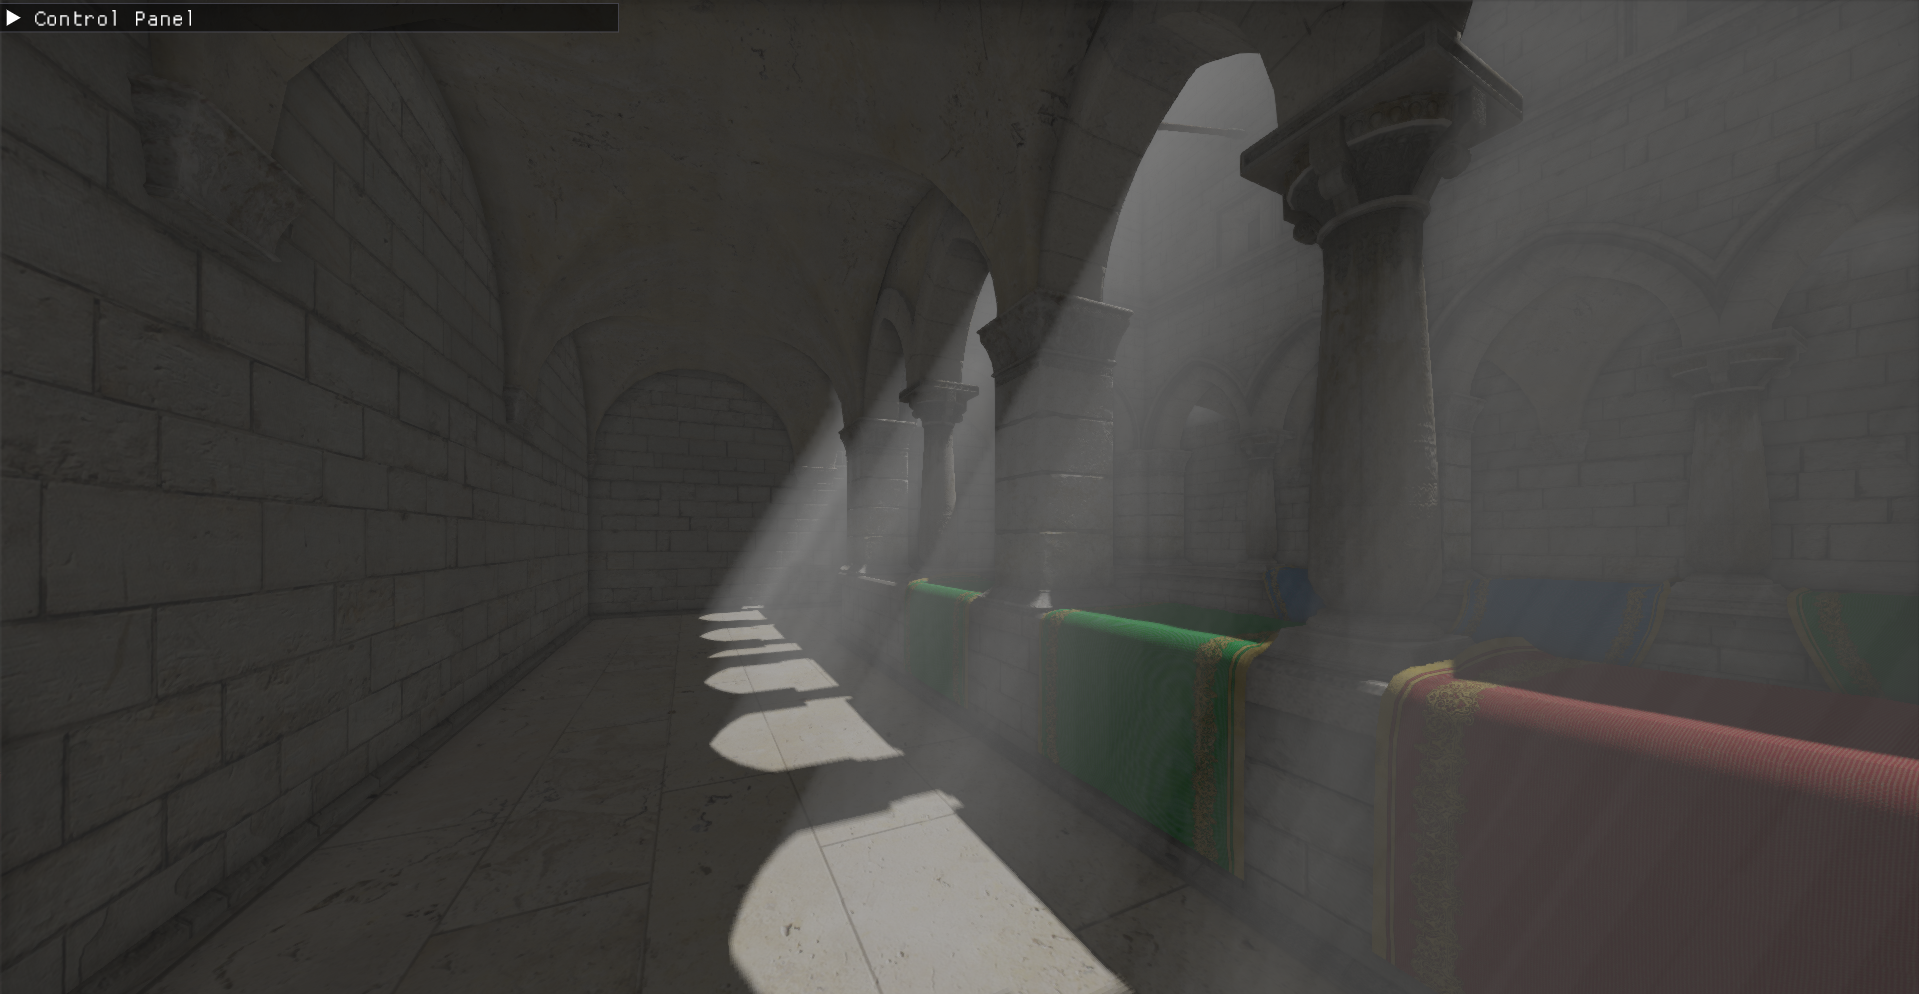
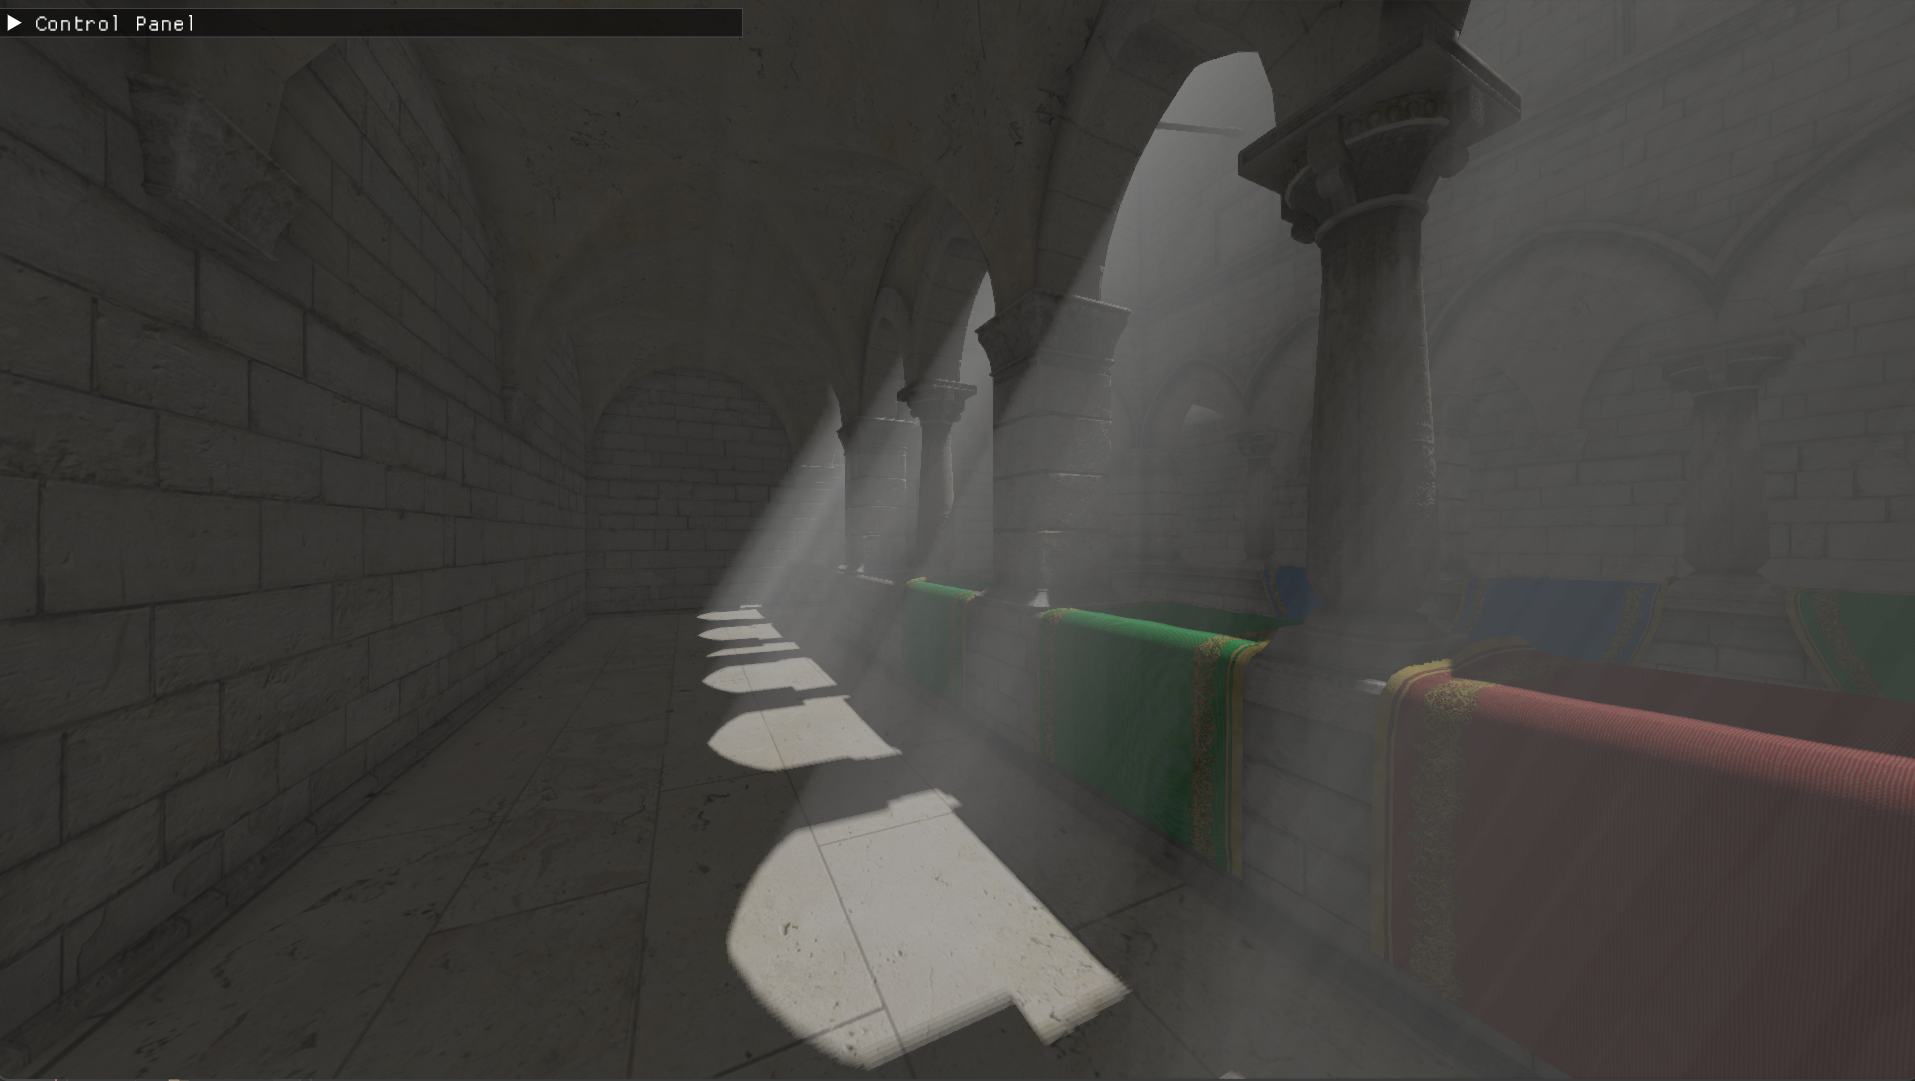
Improve AO (Anthem-AD28)

diff --git a/Asylum/AS1-CustomPasses/Assets/PostProc.cs b/Asylum/AS1-CustomPasses/Assets/PostProc.cs
@@ -9,6 +9,9 @@ public sealed class GrayScale : CustomPostProcessVolumeComponent, IPostProcessCo
     [Tooltip("Controls the intensity of the effect.")]
     public ClampedFloatParameter intensity = new ClampedFloatParameter(0f, 0f, 1f);
 
+    public RenderTexture normalMap;
+    public RenderTexture depthMap;
+
     Material m_Material;
 
     public bool IsActive() => m_Material != null && intensity.value > 0f;
@@ -27,7 +30,7 @@ public sealed class GrayScale : CustomPostProcessVolumeComponent, IPostProcessCo
             return;
 
         m_Material.SetFloat("_Intensity", intensity.value);
-        Texture tex = Shader.GetGlobalTexture("_CameraNormalsTexture");
+
         cmd.Blit(source, destination, m_Material, 0);
     }
 

diff --git a/Asylum/AS1-CustomPasses/Assets/ExtractColorBuffer.cs b/Asylum/AS1-CustomPasses/Assets/ExtractColorBuffer.cs
@@ -83,5 +83,8 @@ class ExtractColorBuffer : MonoBehaviour {
         depthBakePass.depthTexture = depthTexture;
         depthBakePass.normalTexture = normalTexture;
         depthBakePass.bakingCamera = cameraDepthBake;
+
+        Shader.SetGlobalTexture("_NormalMap", normalTexture);
+        Shader.SetGlobalTexture("_DepthMap", depthTexture);
     }
 }
